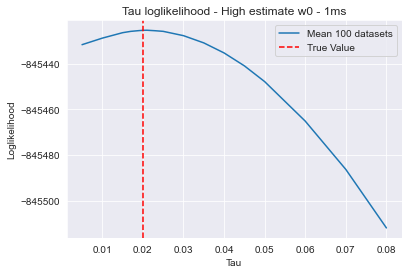
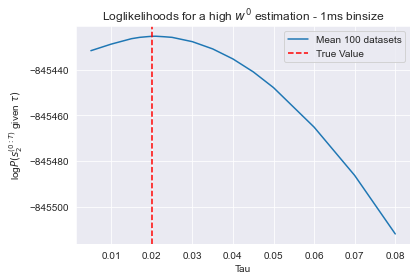
AltVSim

diff --git a/noiseSens/SimDiffNoises.py b/noiseSens/SimDiffNoises.py
@@ -177,7 +177,63 @@ def MHsampler(w0,b2est,shapes_prior,rates_prior,s1,s2,std,P,binsize,seconds,U,it
         theta_prior = np.copy(theta_choice)
         old_log_post = [np.copy(old_log_post),np.copy(new_log_post)][choice == 1]
     return theta
-        
+
+### ALSO DO ALT ###
+
+def adjust_variance2(theta, U, par_ind,N,it,shapes):
+    mean = np.zeros(N)
+    var_new = np.zeros(N)
+    theta_new = np.copy(theta[-1])
+    while (any(i == 0 for i in var_new)):
+        for i in range(N):
+            if i == 0:
+                mean[i] = theta[-U+1::2].mean(0)[i]
+                var_new[i] = theta[-U+1::2].var(0)[i]*(2.4**2)
+            elif i == 1:
+                mean[i] = theta[-U::2].mean(0)[i]
+                var_new[i] = theta[-U::2].var(0)[i]*(2.4**2)
+            else:
+                mean[i] = theta[-U:].mean(0)[i]
+                var_new[i] = theta[-U:].var(0)[i]*(2.4**2)
+        U += 100
+        if U > it:
+            return shapes, np.array([(np.random.gamma(shapes[i],theta[-1][i]/shapes[i])) for i in range(N)])
+    new_shapes = np.array([((mean[i]**2) / var_new[i]) for i in range(N)])
+    for i in par_ind:
+        theta_new[i] = np.random.gamma(new_shapes[i],theta[-1][i]/new_shapes[i])
+    return new_shapes,theta_new
+
+def MHsampler2(w0est,b2est,shapes_prior,rates_prior,s1,s2,std,P,binsize,seconds,U,it,N):
+    '''
+    Monte Carlo sampling with particle filtering, algoritme 3
+    '''
+    #theta_prior = parameter_priors(shapes_prior,rates_prior)
+    theta_prior = np.array([0.001,0.005])
+    theta = np.array([theta_prior])
+    shapes = np.copy(shapes_prior)
+    par_ind = np.linspace(0,N-1,N).astype(int)
+    old_log_post = particle_filter(w0est,b2est,theta_prior,s1,s2,std,P,binsize,seconds)
+    for i in range(1,it):
+        ex = [1,0][i % 2 == 0] #oddetall iterasjoner, eksluder Tau (index 1), partall: Ap (index 0)
+        par_ind_temp = np.delete(par_ind,ex)
+        if (i % U == 0):
+            shapes, theta_next = adjust_variance2(theta,U,par_ind_temp,N,it,shapes)
+        else:    
+            theta_next = proposal_step(shapes,theta_prior,par_ind_temp)
+        new_log_post = particle_filter(w0est,b2est,theta_next,s1,s2,std,P,binsize,seconds)
+        prob_old,prob_next = scaled2_spike_prob(old_log_post,new_log_post)
+        r = ratio(prob_old,prob_next,shapes_prior,rates_prior,shapes,theta_next,theta_prior,N)
+        #print('old theta:', theta_prior)
+        #print('new theta:', theta_next)
+        #print('r:',r)
+        choice = np.int(np.random.choice([1,0], 1, p=[min(1,r),1-min(1,r)]))
+        theta_choice = [np.copy(theta_prior),np.copy(theta_next)][choice == 1]
+        #print('choice:', theta_choice)
+        theta = np.vstack((theta, theta_choice))
+        theta_prior = np.copy(theta_choice)
+        old_log_post = [np.copy(old_log_post),np.copy(new_log_post)][choice == 1]
+    return theta
+
 '''
 PARAMETERS AND RUNNING OF ALGORITHM :
 '''        
@@ -195,6 +251,7 @@ U = 100
 it = 1500
 shapes_prior = np.array([4,5])
 rates_prior = np.array([50,100])
+N = 2
 
 w0est = -np.inf
 while (w0est < 0.97 or w0est > 1.03):
@@ -205,42 +262,57 @@ while (w0est < 0.97 or w0est > 1.03):
 
 
 Simest1 = MHsampler(w0est, b2est, shapes_prior, rates_prior, s1, s2, std, P, binsize, seconds, U, it)
+Altest1 = MHsampler2(w0est,b2est,shapes_prior,rates_prior,s1,s2,std,P,binsize,seconds,U,it,N)
 
 std = 0.0005
 
 
 Simest2 = MHsampler(w0est, b2est, shapes_prior, rates_prior, s1, s2, std, P, binsize, seconds, U, it)
+Altest2 = MHsampler2(w0est,b2est,shapes_prior,rates_prior,s1,s2,std,P,binsize,seconds,U,it,N)
 
 std = 0.001
 
 
 Simest3 = MHsampler(w0est, b2est, shapes_prior, rates_prior, s1, s2, std, P, binsize, seconds, U, it)
+Altest3 = MHsampler2(w0est,b2est,shapes_prior,rates_prior,s1,s2,std,P,binsize,seconds,U,it,N)
 
 std = 0.002
 
 Simest4 = MHsampler(w0est, b2est, shapes_prior, rates_prior, s1, s2, std, P, binsize, seconds, U, it)
+Altest4 = MHsampler2(w0est,b2est,shapes_prior,rates_prior,s1,s2,std,P,binsize,seconds,U,it,N)
 
 
 std = 0.003
 
 Simest5 = MHsampler(w0est, b2est, shapes_prior, rates_prior, s1, s2, std, P, binsize, seconds, U, it)
+Altest5 = MHsampler2(w0est,b2est,shapes_prior,rates_prior,s1,s2,std,P,binsize,seconds,U,it,N)
 
 
 std = 0.004
 
 Simest6 = MHsampler(w0est, b2est, shapes_prior, rates_prior, s1, s2, std, P, binsize, seconds, U, it)
+Altest6 = MHsampler2(w0est,b2est,shapes_prior,rates_prior,s1,s2,std,P,binsize,seconds,U,it,N)
 
 
 std = 0.005
 
 Simest7 = MHsampler(w0est, b2est, shapes_prior, rates_prior, s1, s2, std, P, binsize, seconds, U, it)
+Altest7 = MHsampler2(w0est,b2est,shapes_prior,rates_prior,s1,s2,std,P,binsize,seconds,U,it,N)
 
-np.save('Sim0.0001noise',Simest1)
-np.save('Sim0.0005noise',Simest2)
-np.save('Sim0.001noise',Simest3)
-np.save('Sim0.002noise',Simest4)
-np.save('Sim0.003noise',Simest5)
-np.save('Sim0.004noise',Simest6)
-np.save('Sim0.005noise',Simest7)
+np.save('Sim0.0001noiseSame',Simest1)
+np.save('Sim0.0005noiseSame',Simest2)
+np.save('Sim0.001noiseSame',Simest3)
+np.save('Sim0.002noiseSame',Simest4)
+np.save('Sim0.003noiseSame',Simest5)
+np.save('Sim0.004noiseSame',Simest6)
+np.save('Sim0.005noiseSame',Simest7)
+
+np.save('Alt0.0001noiseSame',Altest1)
+np.save('Alt0.0005noiseSame',Altest2)
+np.save('Alt0.001noiseSame',Altest3)
+np.save('Alt0.002noiseSame',Altest4)
+np.save('Alt0.003noiseSame',Altest5)
+np.save('Alt0.004noiseSame',Altest6)
+np.save('Alt0.005noiseSame',Altest7)
 
 

diff --git a/noiseSens/PlotNoiseSens.py b/noiseSens/PlotNoiseSens.py
@@ -70,7 +70,7 @@ plt.show()
 
 '''
 Tau analysis
-'''
+
 
 Tau1 = np.load('Tau0.0001noise.npy')
 Tau2 = np.load('Tau0.0005noise.npy')
@@ -97,6 +97,7 @@ Tauvar7 = np.var(Tau7[300:])
 
 Taumeans = [Taumean1,Taumean2,Taumean3,Taumean4,Taumean5,Taumean6,Taumean7]
 Taustds = [np.sqrt(Tauvar1),np.sqrt(Tauvar2),np.sqrt(Tauvar3),np.sqrt(Tauvar4),np.sqrt(Tauvar5),np.sqrt(Tauvar6),np.sqrt(Tauvar7)]
+'''
 '''
 plt.figure()
 plt.title('Sensitivity of noise')
@@ -170,16 +171,30 @@ SimApmean6 = np.mean(Sim6[300:,0])
 SimApvar6 = np.var(Sim6[300:,0])
 SimApmean7 = np.mean(Sim7[300:,0])
 SimApvar7 = np.var(Sim7[300:,0])
-
+x = [1,2,3,4,5,6,7]
+ticksss = ['0.0001','0.0005','0.001','0.002','0.003','0.004','0.005']
 TaumeansSim = [SimTaumean1,SimTaumean2,SimTaumean3,SimTaumean4,SimTaumean5,SimTaumean6,SimTaumean7]
 TaustdsSim = [np.sqrt(SimTauvar1),np.sqrt(SimTauvar2),np.sqrt(SimTauvar3),np.sqrt(SimTauvar4),np.sqrt(SimTauvar5),np.sqrt(SimTauvar6),np.sqrt(SimTauvar7)]
 
 ApmeansSim = [SimApmean1,SimApmean2,SimApmean3,SimApmean4,SimApmean5,SimApmean6,SimApmean7]
 ApstdsSim = [np.sqrt(SimApvar1),np.sqrt(SimApvar2),np.sqrt(SimApvar3),np.sqrt(SimApvar4),np.sqrt(SimApvar5),np.sqrt(SimApvar6),np.sqrt(SimApvar7)]
 
-
 plt.figure()
-plt.title('Sensitivity of noise')
+sns.displot(Sim1[300:,1], kde=True,bins=100)
+#plt.xlim([0.004,0.007])
+plt.xlabel('Tau')
+plt.axvline(0.02,color='r',linestyle='--',label='True Value')
+plt.title('Posterior distribution Tau - $\sigma = 0.0001$')
+#plt.plot(X,DensAp1.pdf(X),label='Scipy')
+#plt.title('Posterior distribution Tau - 0.001 noise')
+#plt.axvline(np.mean(Theta1[300:,0]),label = 'mean')
+#plt.axvline(Map_x,color='g',linestyle='--',label='MAP')
+plt.legend()
+plt.show()
+'''
+'''
+plt.figure()
+plt.title('Sensitivity of noise - Tau')
 plt.xlabel('Noise')
 plt.ylabel('Tau estimation')
 plt.ylim([-0.06,0.1])
@@ -193,9 +208,9 @@ plt.show()
 
 
 plt.figure()
-plt.title('Sensitivity of noise')
+plt.title('Sensitivity of noise - $A_+$')
 plt.xlabel('Noise')
-plt.ylabel('Ap estimation')
+plt.ylabel('$A_+$ estimation')
 plt.ylim([0.002,0.008])
 plt.xlim([0,8])
 plt.xticks(x,labels = ticksss)
@@ -204,17 +219,8 @@ for i in range(7):
 plt.axhline(0.005,color='r',linestyle='--',label='True Value')
 plt.legend()
 plt.show()
-
-plt.figure()
-plt.title('Ap inference - 0.005 noise')
-plt.xlabel('Iteration')
-plt.ylabel('Ap')
-plt.ylim([0,0.01])
-plt.plot(np.linspace(1,1500,1500),Ap7,'ko')
-plt.axhline(0.005,color='r',linestyle='--',label='True Value')
-plt.legend()
-plt.show()
 '''
+
 '''
 Alternating analaysis
 '''
@@ -310,29 +316,44 @@ TaustdsAltB = [np.sqrt(AltTauvarB1),np.sqrt(AltTauvarB2),np.sqrt(AltTauvarB3),np
 
 ApmeansAltB = [AltApmeanB1,AltApmeanB2,AltApmeanB3,AltApmeanB4,AltApmeanB5,AltApmeanB6,AltApmeanB7]
 ApstdsAltB = [np.sqrt(AltApvarB1),np.sqrt(AltApvarB2),np.sqrt(AltApvarB3),np.sqrt(AltApvarB4),np.sqrt(AltApvarB5),np.sqrt(AltApvarB6),np.sqrt(AltApvarB7)]
-'''
-plt.figure()
-plt.plot(Alt7Big[:,1],Alt7Big[:,0],'ko')
-plt.show()
-'''
+
 x = [1,2,3,4,5,6,7]
 ticksss = ['0.0001','0.0005','0.001','0.002','0.003','0.004','0.005']
-
-
+'''
 plt.figure()
-sns.displot(Alt1True[300:,1], kde=True)
-plt.axvline(0.02,color='r',linestyle='--',label='True Value')
+sns.displot(Alt7True[300:,0], kde=True)
+plt.xlabel('$A_+$')
+plt.axvline(0.005,color='r',linestyle='--',label='True Value')
 #plt.xlim([0.003,0.007])
 plt.legend()
-plt.title('Posterior distribution Tau - 0.0001 noise')
+plt.title('Posterior distribution $A_+$ - 0.005 noise')
 plt.show()
+'''
 
 plt.figure()
-plt.title('Tau inference - 0.0001 noise')
-plt.xlabel('Iteration')
-plt.ylabel('Tau')
-#plt.ylim([0,0.01])
-plt.plot(np.linspace(1,1500,1500),Alt1True[:,1],'ko')
+plt.title('Sensitivity of noise - Tau')
+plt.xlabel('Noise')
+plt.ylabel('Tau estimation')
+plt.ylim([-0.06,0.1])
+plt.xlim([0,8])
+plt.xticks(x,labels = ticksss)
+for i in range(7):
+    plt.errorbar(x[i], TaumeansAltT[i], yerr = TaustdsAltT[i],marker = 'o')
 plt.axhline(0.02,color='r',linestyle='--',label='True Value')
 plt.legend()
 plt.show()
+
+
+plt.figure()
+plt.title('Sensitivity of noise - $A_+$')
+plt.xlabel('Noise')
+plt.ylabel('$A_+$ estimation')
+plt.ylim([0.002,0.008])
+plt.xlim([0,8])
+plt.xticks(x,labels = ticksss)
+for i in range(7):
+    plt.errorbar(x[i], ApmeansAltT[i], yerr = ApstdsAltT[i],marker = 'o')
+plt.axhline(0.005,color='r',linestyle='--',label='True Value')
+plt.legend()
+plt.show()
+

diff --git a/BinsizeTests/Plotting.py b/BinsizeTests/Plotting.py
@@ -10,7 +10,7 @@ import matplotlib.pyplot as plt
 import seaborn as sns
 import pandas as pd
 
-'''
+
 Taus = np.load('Taus.npy')
 w0ests2ms = np.load('w0estimates_2ms.npy')
 w0ests5ms = np.load('w0estimates_5ms.npy')
@@ -39,8 +39,7 @@ indexesgood2ms = np.delete(indexes,np.concatenate((w0highs2ms[0],w0lows2ms[0])))
 indexesgood5ms = np.delete(indexes,np.concatenate((w0highs5ms[0],w0lows5ms[0])))
 
 indexesgood1ms = np.delete(indexes,np.concatenate((w0highs1ms[0],w0lows1ms[0])))
-'''
-'''
+
 Tau2msgoods = []
 for i in range(len(indexesgood2ms)):
     Tau2msgoods.append(loglikesTau2ms[indexesgood2ms[i].astype(int)])
@@ -83,7 +82,7 @@ Tau1mslows = []
 
 for i in range(len(w0lows1ms[0])):
     Tau1mslows.append(loglikesTau1ms[w0lows1ms[0][i].astype(int)])
-
+'''
 plt.figure()
 plt.title('Tau loglikelihood - Good estimate w0 - 2ms')
 plt.xlabel('Tau')
@@ -217,19 +216,29 @@ for i in range(4):
 plt.axhline(0.02,color='r',linestyle='--',label='True Value')
 plt.legend()
 plt.show()
-    
+'''
+'''
 plt.figure()
-plt.title('Loglikelihoods for too high $w^0$ estimation  ')
+plt.title('Loglikelihoods good $w^0$ estimation - 1ms binsize ')
 plt.xlabel('Tau')
 plt.ylabel(r'log$P(s_2^{(0:T)}$ given $\tau)$')
-plt.plot(Taus,np.asarray(Tau5mshighs).mean(0),label='Mean 100 datasets')
+plt.plot(Taus,np.asarray(Tau1msgoods).mean(0),label='Mean 100 datasets')
+plt.axvline(0.02,color='r',linestyle='--',label='True Value')
+plt.legend()
+plt.show()
+'''
+plt.figure()
+plt.title('Loglikelihoods for a high $w^0$ estimation - 1ms binsize ')
+plt.xlabel('Tau')
+plt.ylabel(r'log$P(s_2^{(0:T)}$ given $\tau)$')
+plt.plot(Taus,np.asarray(Tau5mshighs[27]),label='Mean 100 datasets')
 plt.axvline(0.02,color='r',linestyle='--',label='True Value')
 plt.legend()
 plt.show()
 #data = np.transpose(np.asarray([Tau5msgoods2,Taus2]))
 
 #df = pd.DataFrame(data, columns =['log', 'tau'])
-'''
+
 
 Tau1ms1 = np.load('Tau0.0001noise1msB35.npy')
 Tau1ms2 = np.load('Tau0.001noise2msB35.npy')
@@ -293,7 +302,7 @@ plt.title('Posterior distribution Tau - $\sigma = 0.005$ - Binsize 2ms')
 plt.legend()
 plt.show()
 '''
-
+'''
 Taumean1 = np.mean(Tau1[300:])
 Tauvar1 = np.var(Tau1[300:])
 Taumean2 = np.mean(Tau2[300:])
@@ -344,3 +353,4 @@ for i in range(4):
 plt.axhline(0.02,color='r',linestyle='--',label='True Value')
 plt.legend()
 plt.show()
+'''

diff --git a/20DatasetApAnalyse/plot20datasets.py b/20DatasetApAnalyse/plot20datasets.py
@@ -18,6 +18,8 @@ Datasets5 = np.load('ApInferenceData17to20.npy')
 
 Datasets = [Datasets1,Datasets2,Datasets3,Datasets4,Datasets5]
 
+
+'''
 maps1 = np.load("Maps0.0001.npy")
 maps2 = np.load("Maps0.0005.npy")
 maps3 = np.load("Maps0.001.npy")
@@ -110,7 +112,7 @@ plt.axhline(0.005,color='r',linestyle='--',label='True Value')
 plt.legend()
 plt.show()
             
-'''    
+  
 HistAp1 = np.histogram(Datasets[1][0][0][300:],10000)
 DensAp1= hist(HistAp1)
 
